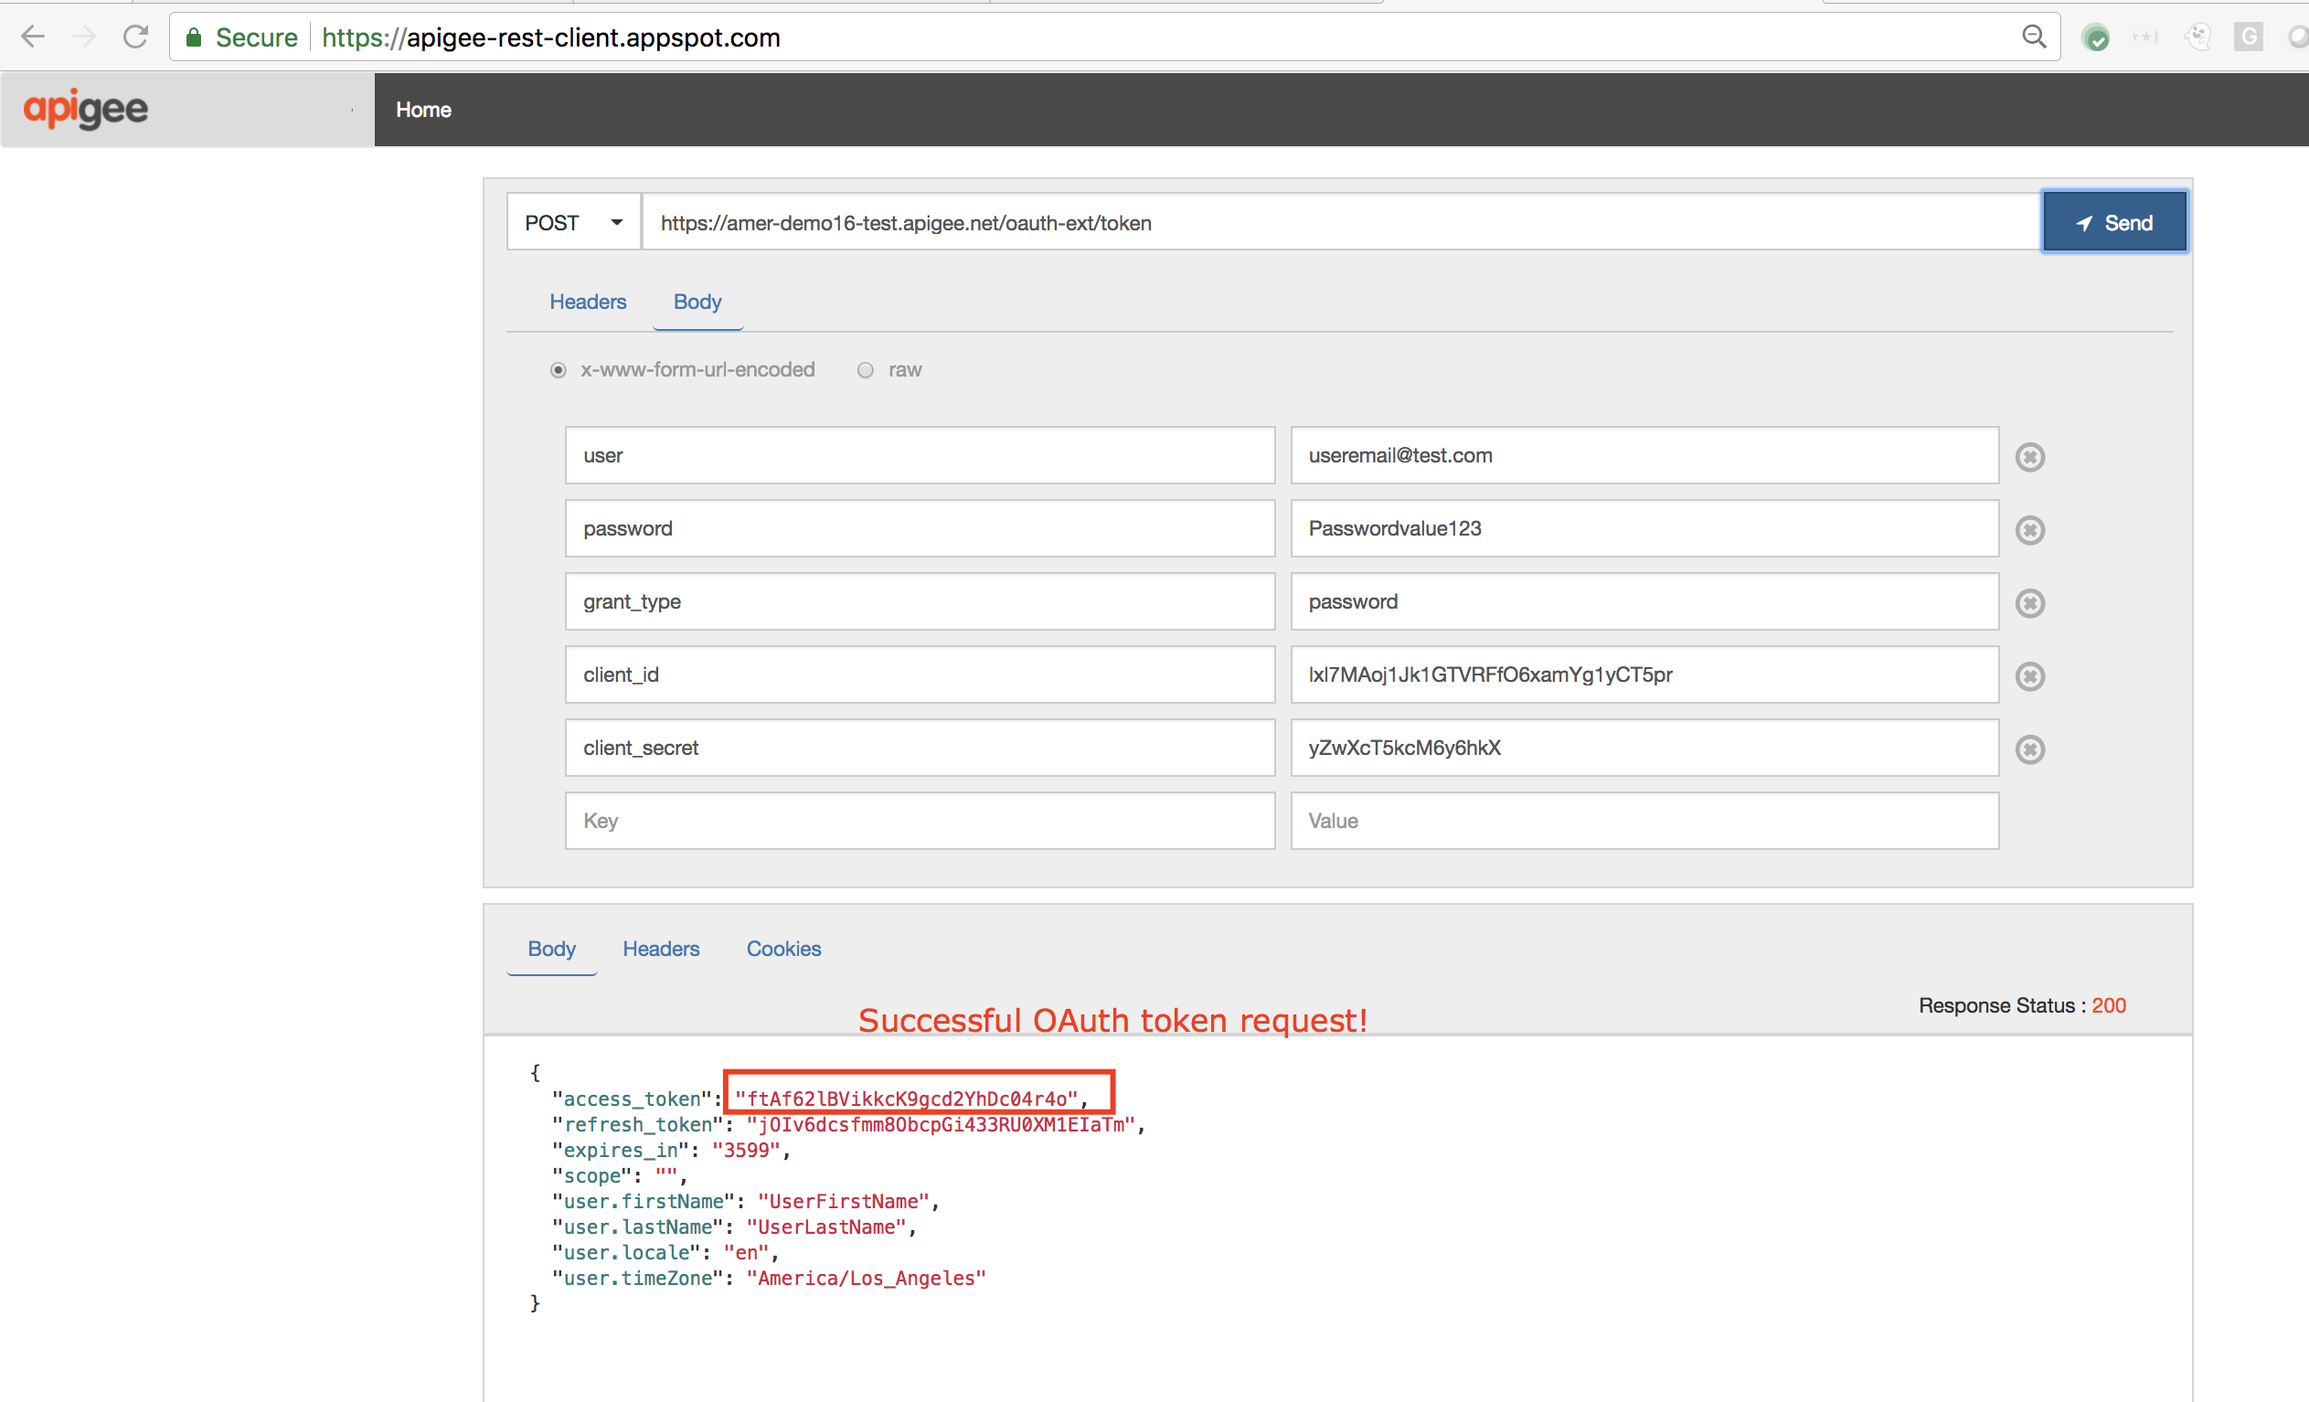
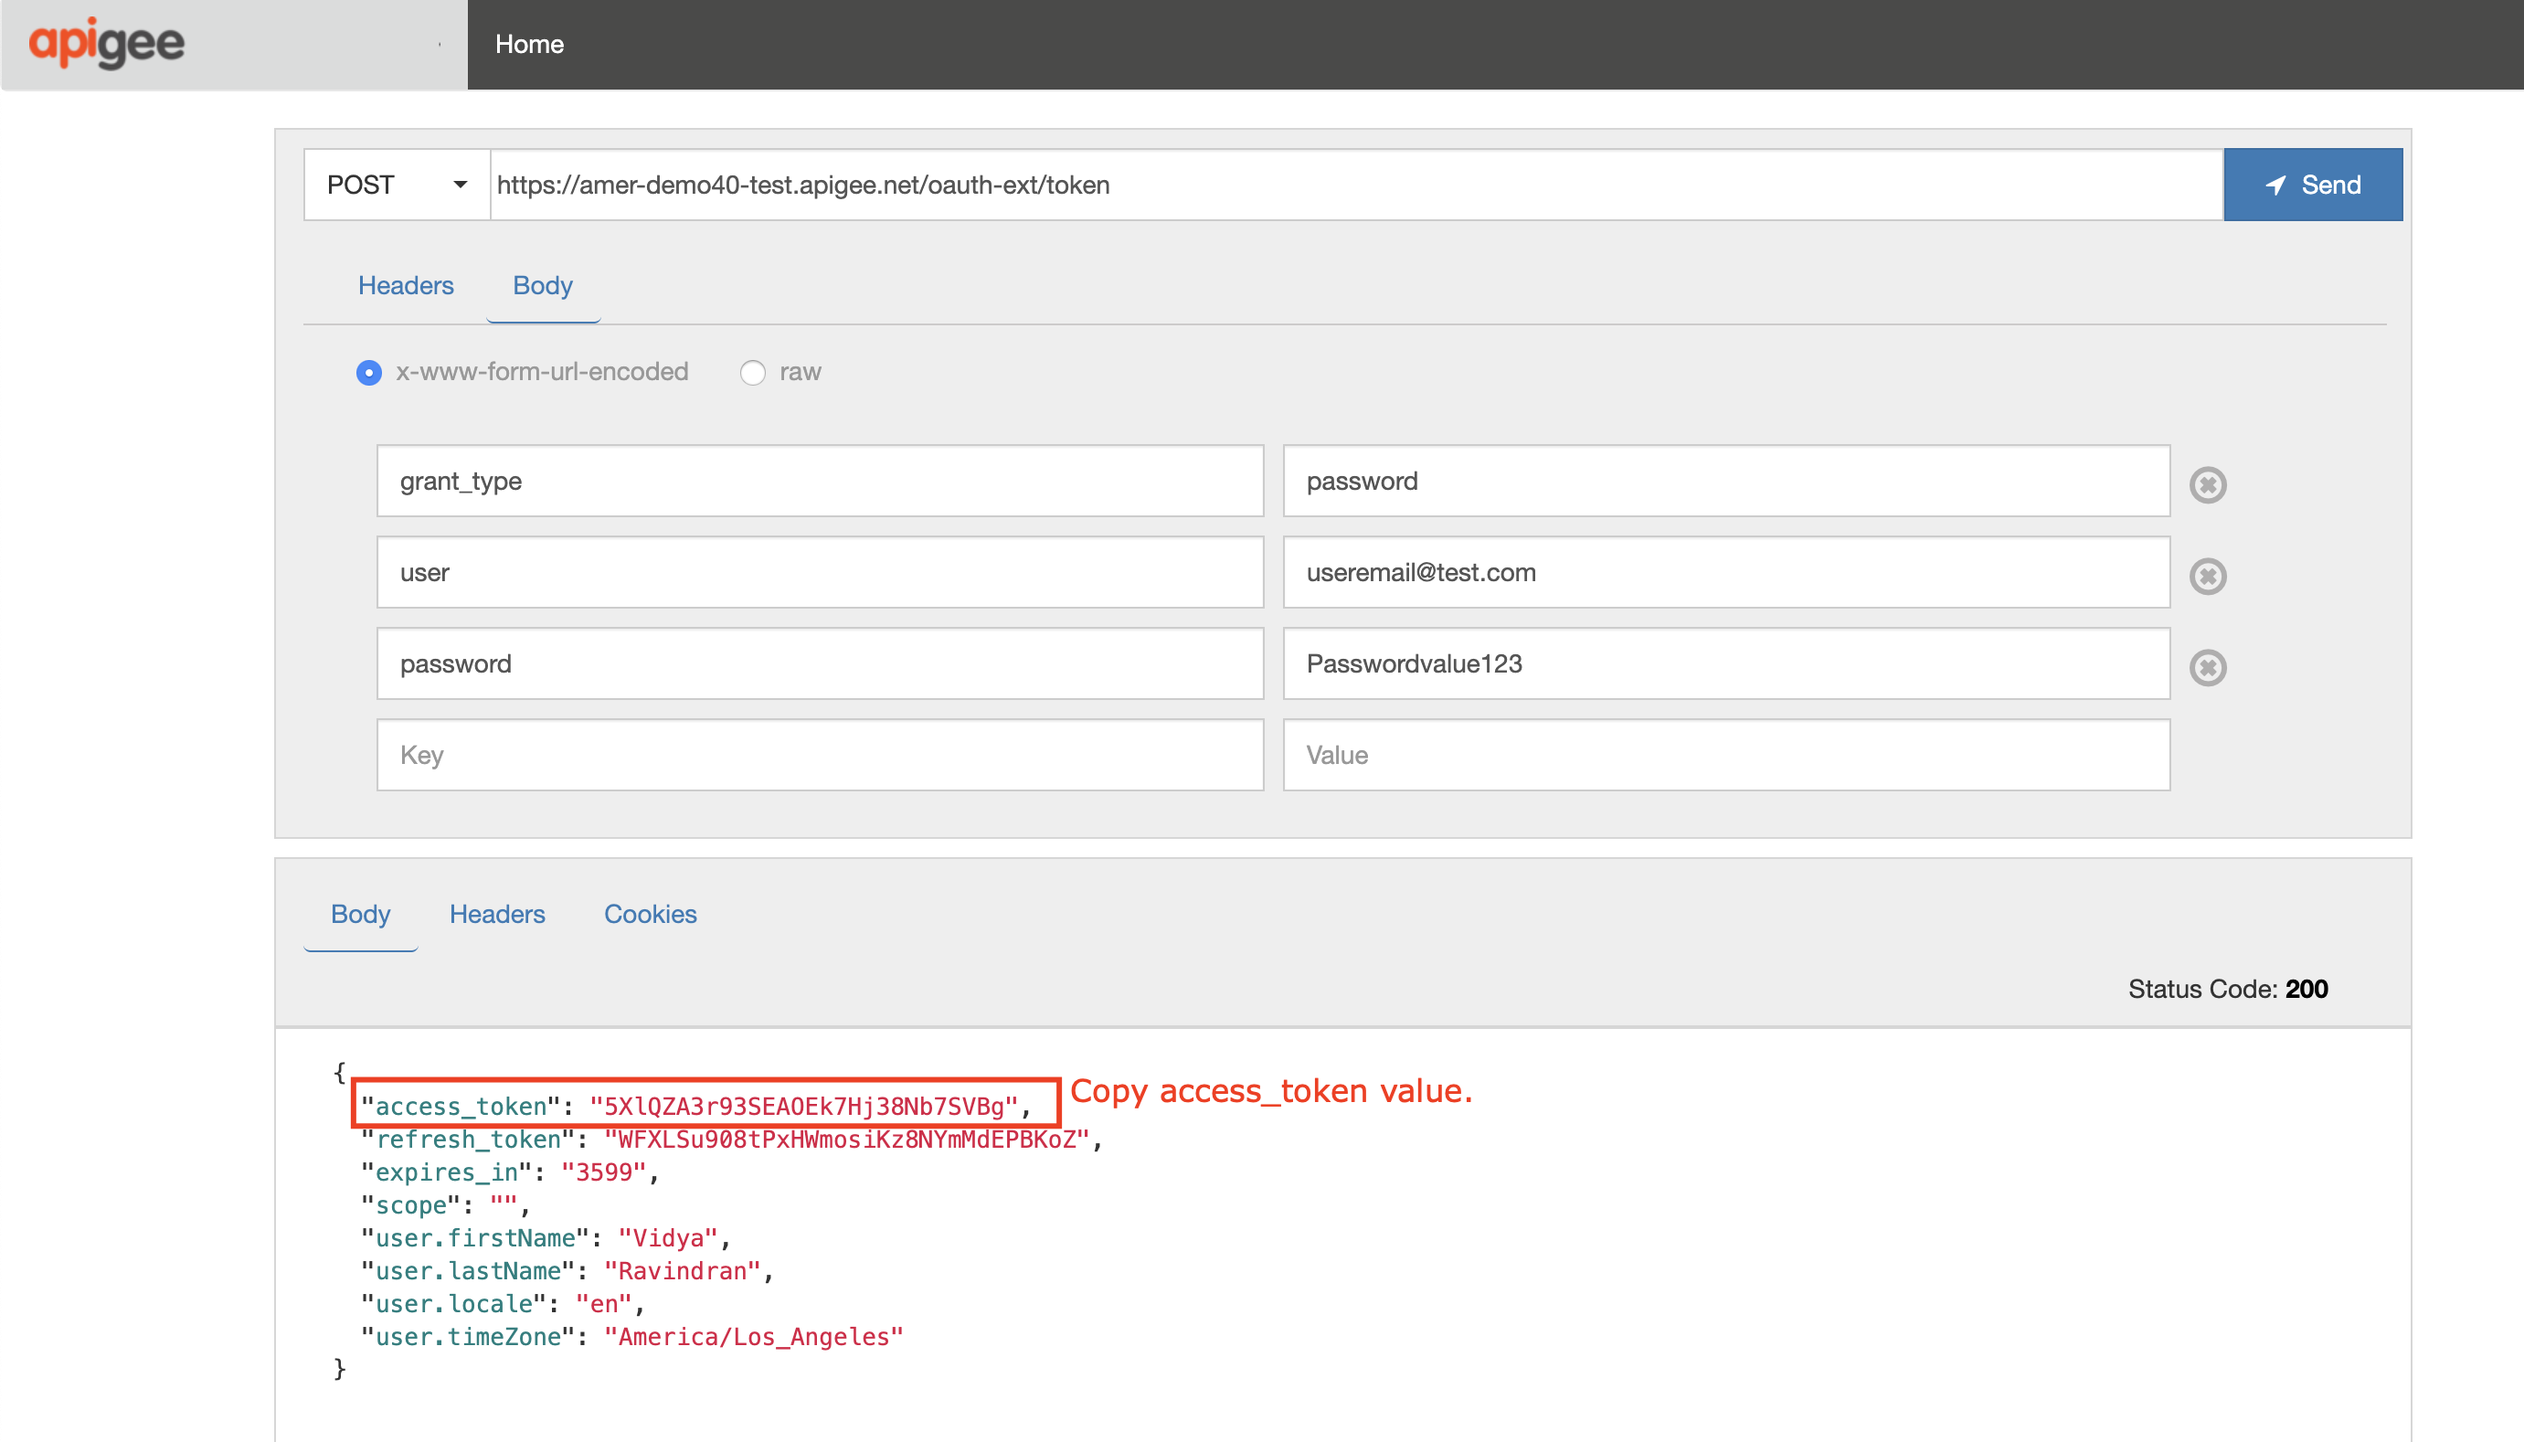
Fixed bugs in Module 2b Lab 5

diff --git a/Module-2b/Labs/Lab 5/README.md b/Module-2b/Labs/Lab 5/README.md
@@ -116,20 +116,23 @@ Now that we have configured the end user credentials in Okta, and the API Proxy 
 
 ![image alt text](./media/image_14.png)
 
-5. Send the following token generation request to the access token endpoint, using a terminal or a [REST client](https://apigee-rest-client.appspot.com):
+5. Send the following token generation request to the access token endpoint, using a terminal or a [REST client](https://apigee-restclient.appspot.com):
 
 ```
 POST /oauth-ext/token HTTP/1.1
 Host: {{org}}-{{env}}.apigee.net
 Content-Type: application/x-www-form-urlencoded
 Accept: application/json
+Authorization: {{Base 64 encoded value of Key:Secret, where Key & Secret are the ones you just noted down}}
 
-grant_type=password&user={{okta_user}}&password={{okta_password}}&client_id={{app_client_key}}&client_secret={{app_client_secret}}
+grant_type=password&user={{okta_user}}&password={{okta_password}}
 ```
 
 * Replace {{org-name}} with your actual Apigee org name, and {{env}} with the deployment environment for your proxy (eg. test)
 
-* Replace {{app_client_key}} and {{app_client_secret}} with the Key and Secret you just noted down
+* To obtain a base64 encoded value of 'Key:Secret', you can utilize an open tool like Gsuite Toolbox:
+
+![iamge alt text](./media/gsuitetoolbox_base64_encode.png)
 
 * Replace {{okta_user}} and {{okta_password}} with the values you used to add the app end user to Okta
 
@@ -139,7 +142,11 @@ grant_type=password&user={{okta_user}}&password={{okta_password}}&client_id={{ap
 
 Example `curl` command (replace with values as described above):
 ```
-curl -X POST -H "Accept:application/json" -H "Content-Type:application/x-www-form-urlencoded" -d 'grant_type=password&user={{okta_user}}&password={{okta_password}}&client_id={{client_id}}&client_secret={{client_secret}}' "https://{{org}}-{{env}}.apigee.net/oauth-ext/token"
+curl -X POST -H "Accept:application/json" \
+-H "Content-Type:application/x-www-form-urlencoded" \
+-H "Authorization:{{Base64 encoded Key:Secret}}" \
+-d 'grant_type=password&user={{okta_user}}&password={{okta_password}}' \
+"https://{{org}}-{{env}}.apigee.net/oauth-ext/token"
 ```
 
 ![image alt text](./media/image_17.png)
